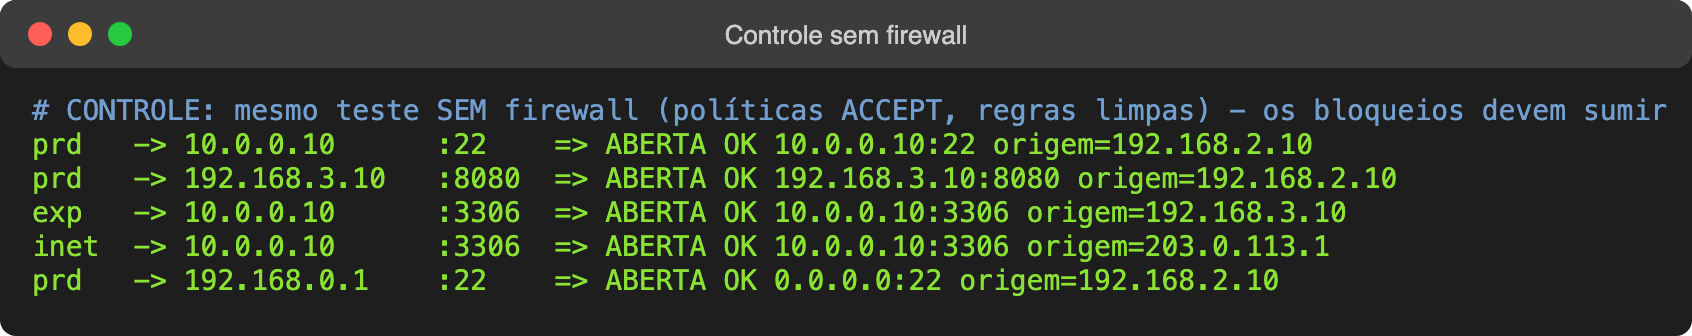
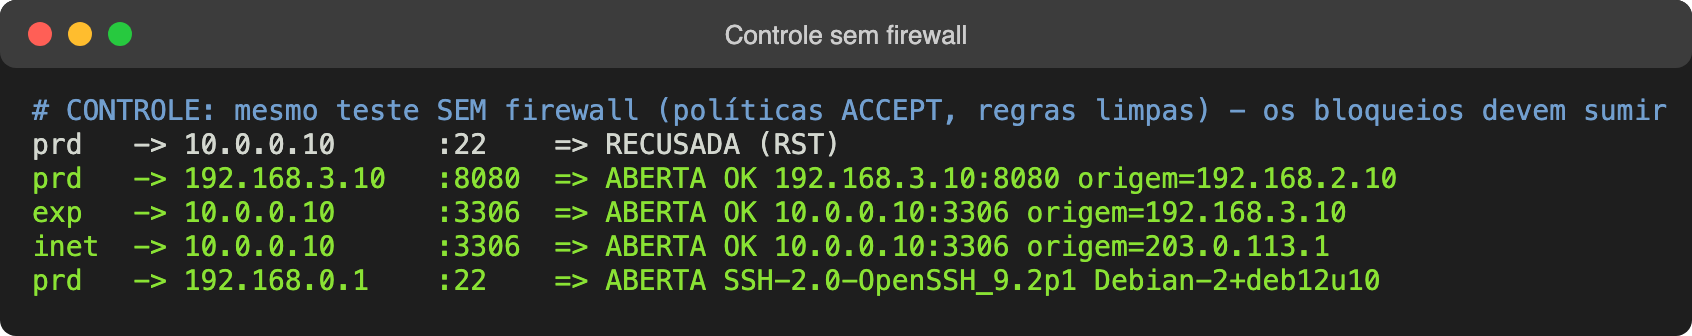
Adiciona testes com ssh, ping, telnet e curl reais e prints

diff --git a/lab/txt2svg.py b/lab/txt2svg.py
@@ -2,11 +2,13 @@
 """Renderiza um arquivo de texto (saída real de terminal) como imagem SVG estilo terminal.
 Uso: txt2svg.py ENTRADA.txt SAIDA.svg "título" ["comando exibido no prompt"]
 O texto não é alterado; apenas colorido (PASS/OK verde, FAIL/DROP vermelho)."""
+import os
 import sys
 from xml.sax.saxutils import escape
 
 src, dst, title = sys.argv[1], sys.argv[2], sys.argv[3]
 cmd = sys.argv[4] if len(sys.argv) > 4 else None
+PROMPT = os.environ.get("PROMPT", "root@firewall:~# ")
 lines = open(src, encoding="utf-8").read().rstrip("\n").split("\n")
 if cmd:
     lines = [("PROMPT", cmd)] + [("OUT", l) for l in lines]
@@ -14,7 +16,7 @@ else:
     lines = [("OUT", l) for l in lines]
 
 CW, LH, PAD, BAR = 8.4, 17, 16, 34
-width = int(max(len(l[1]) for l in lines) * CW + 2 * PAD)
+width = int(max(len(l[1]) + (len(PROMPT) if l[0] == "PROMPT" else 0) for l in lines) * CW + 2 * PAD)
 height = int(len(lines) * LH + 2 * PAD + BAR)
 
 def color(kind, text):
@@ -37,7 +39,7 @@ out = [f'<svg xmlns="http://www.w3.org/2000/svg" width="{width}" height="{height
        f'<text x="{width // 2}" y="22" fill="#cccccc" font-family="sans-serif" font-size="13" text-anchor="middle">{escape(title)}</text>']
 y = BAR + PAD + 10
 for kind, text in lines:
-    shown = ("root@firewall:~# " + text) if kind == "PROMPT" else text
+    shown = (PROMPT + text) if kind == "PROMPT" else text
     out.append(f'<text x="{PAD}" y="{y}" fill="{color(kind, text)}" font-family="DejaVu Sans Mono, Menlo, Consolas, monospace" '
                f'font-size="14" xml:space="preserve">{escape(shown)}</text>')
     y += LH

diff --git a/lab/https_server.py b/lab/https_server.py
@@ -1,0 +1,21 @@
+#!/usr/bin/env python3
+"""Servidor HTTPS de teste (certificado autoassinado). Uso: https_server.py IP PORTA CERT KEY"""
+import http.server
+import ssl
+import sys
+ip, port, cert, key = sys.argv[1], int(sys.argv[2]), sys.argv[3], sys.argv[4]
+class H(http.server.BaseHTTPRequestHandler):
+    def do_GET(self):
+        body = f"Servidor Web {ip}:{port} - origem da conexao: {self.client_address[0]}\n".encode()
+        self.send_response(200)
+        self.send_header("Content-Type", "text/plain; charset=utf-8")
+        self.send_header("Content-Length", str(len(body)))
+        self.end_headers()
+        self.wfile.write(body)
+    def log_message(self, *a):
+        pass
+srv = http.server.HTTPServer((ip, port), H)
+ctx = ssl.SSLContext(ssl.PROTOCOL_TLS_SERVER)
+ctx.load_cert_chain(cert, key)
+srv.socket = ctx.wrap_socket(srv.socket, server_side=True)
+srv.serve_forever()
